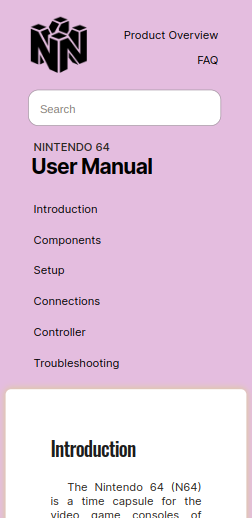
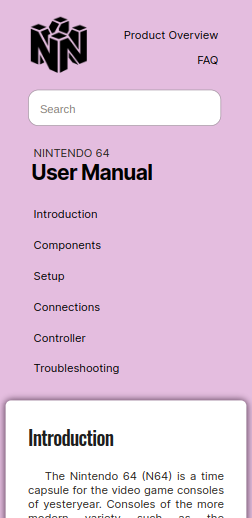
Screenshot da versão mobile atualizada

Changed region(s): [[0.0, 0.3707, 1.0, 1.0], [0.1111, 0.8031, 0.8889, 1.0], [0.1111, 0.278, 0.6111, 0.3707]]

diff --git a/styles/styles.css b/styles/styles.css
@@ -218,7 +218,6 @@ p {
         left: -1.5rem;
     }
     main {
-        max-width: 360px;
         position: relative;
         left: 0rem;
         top: 6rem;

diff --git a/README.md b/README.md
@@ -21,6 +21,8 @@ The objective of this project was to make an app similar to "https://technical-d
 <br>
 For a screenshot of the full page click below:
 
+<br>
+
 <details>
 <summary>Full page screenshot</summary>
 <br>
